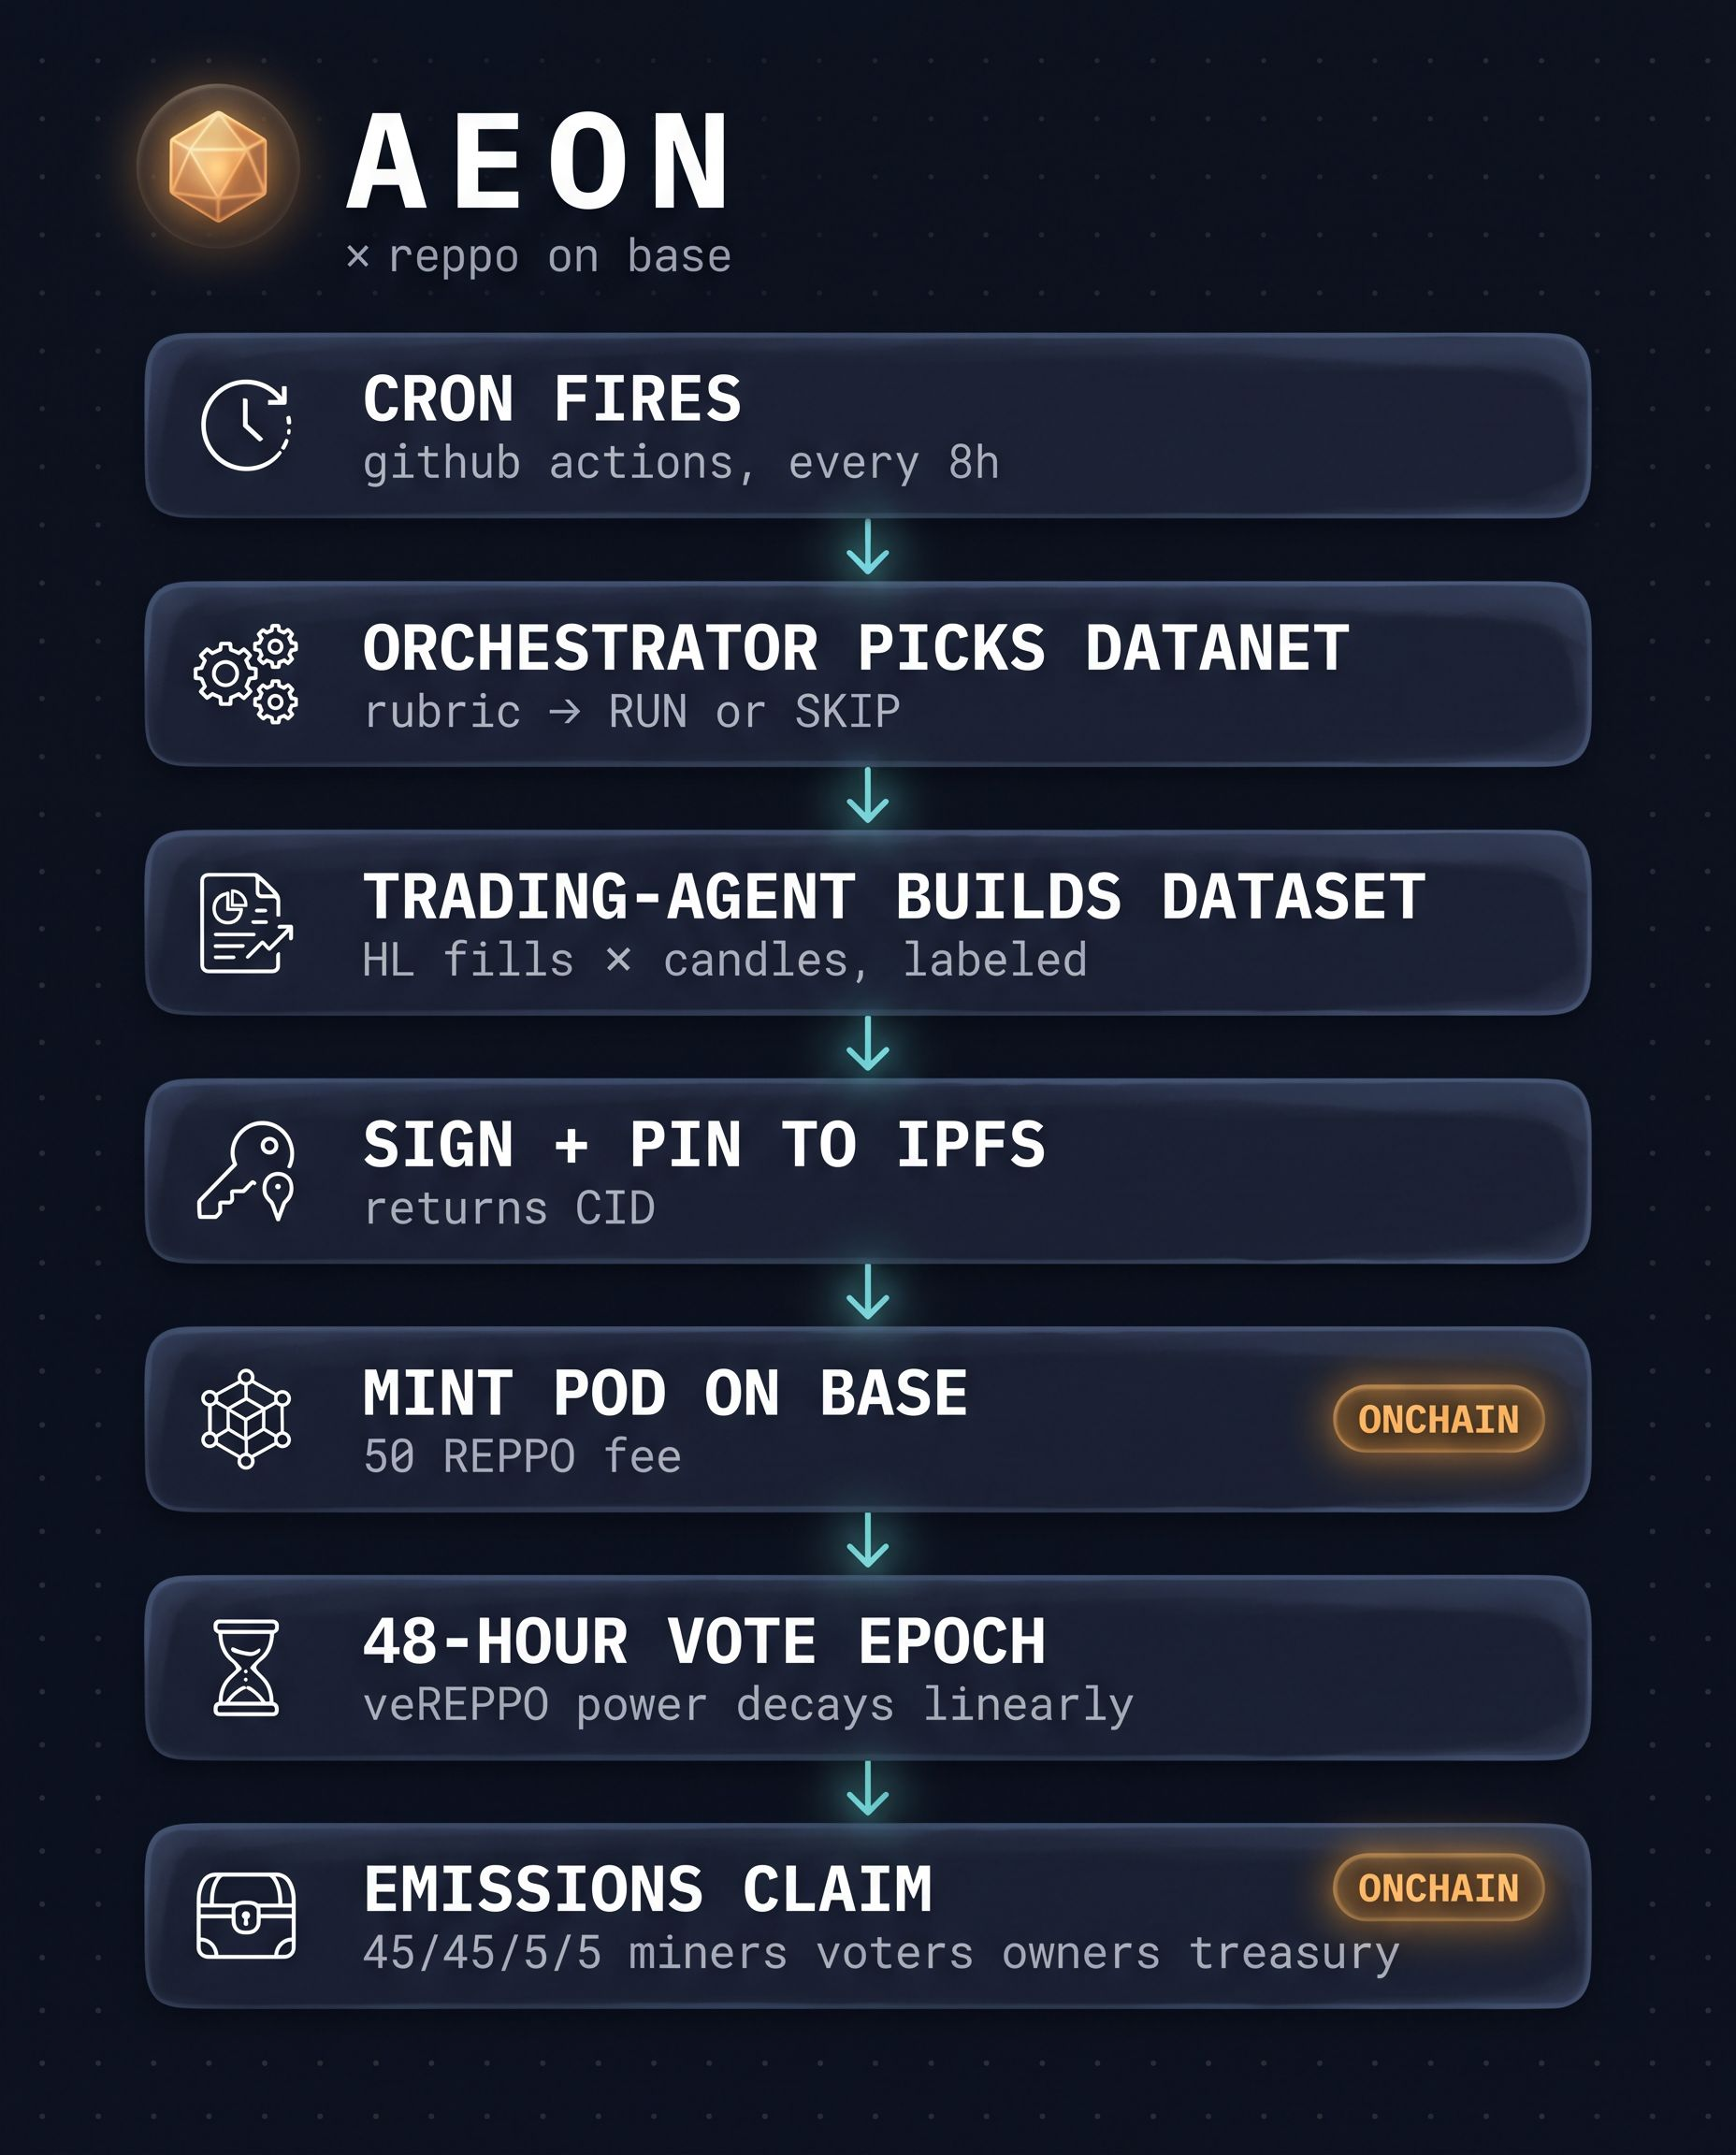
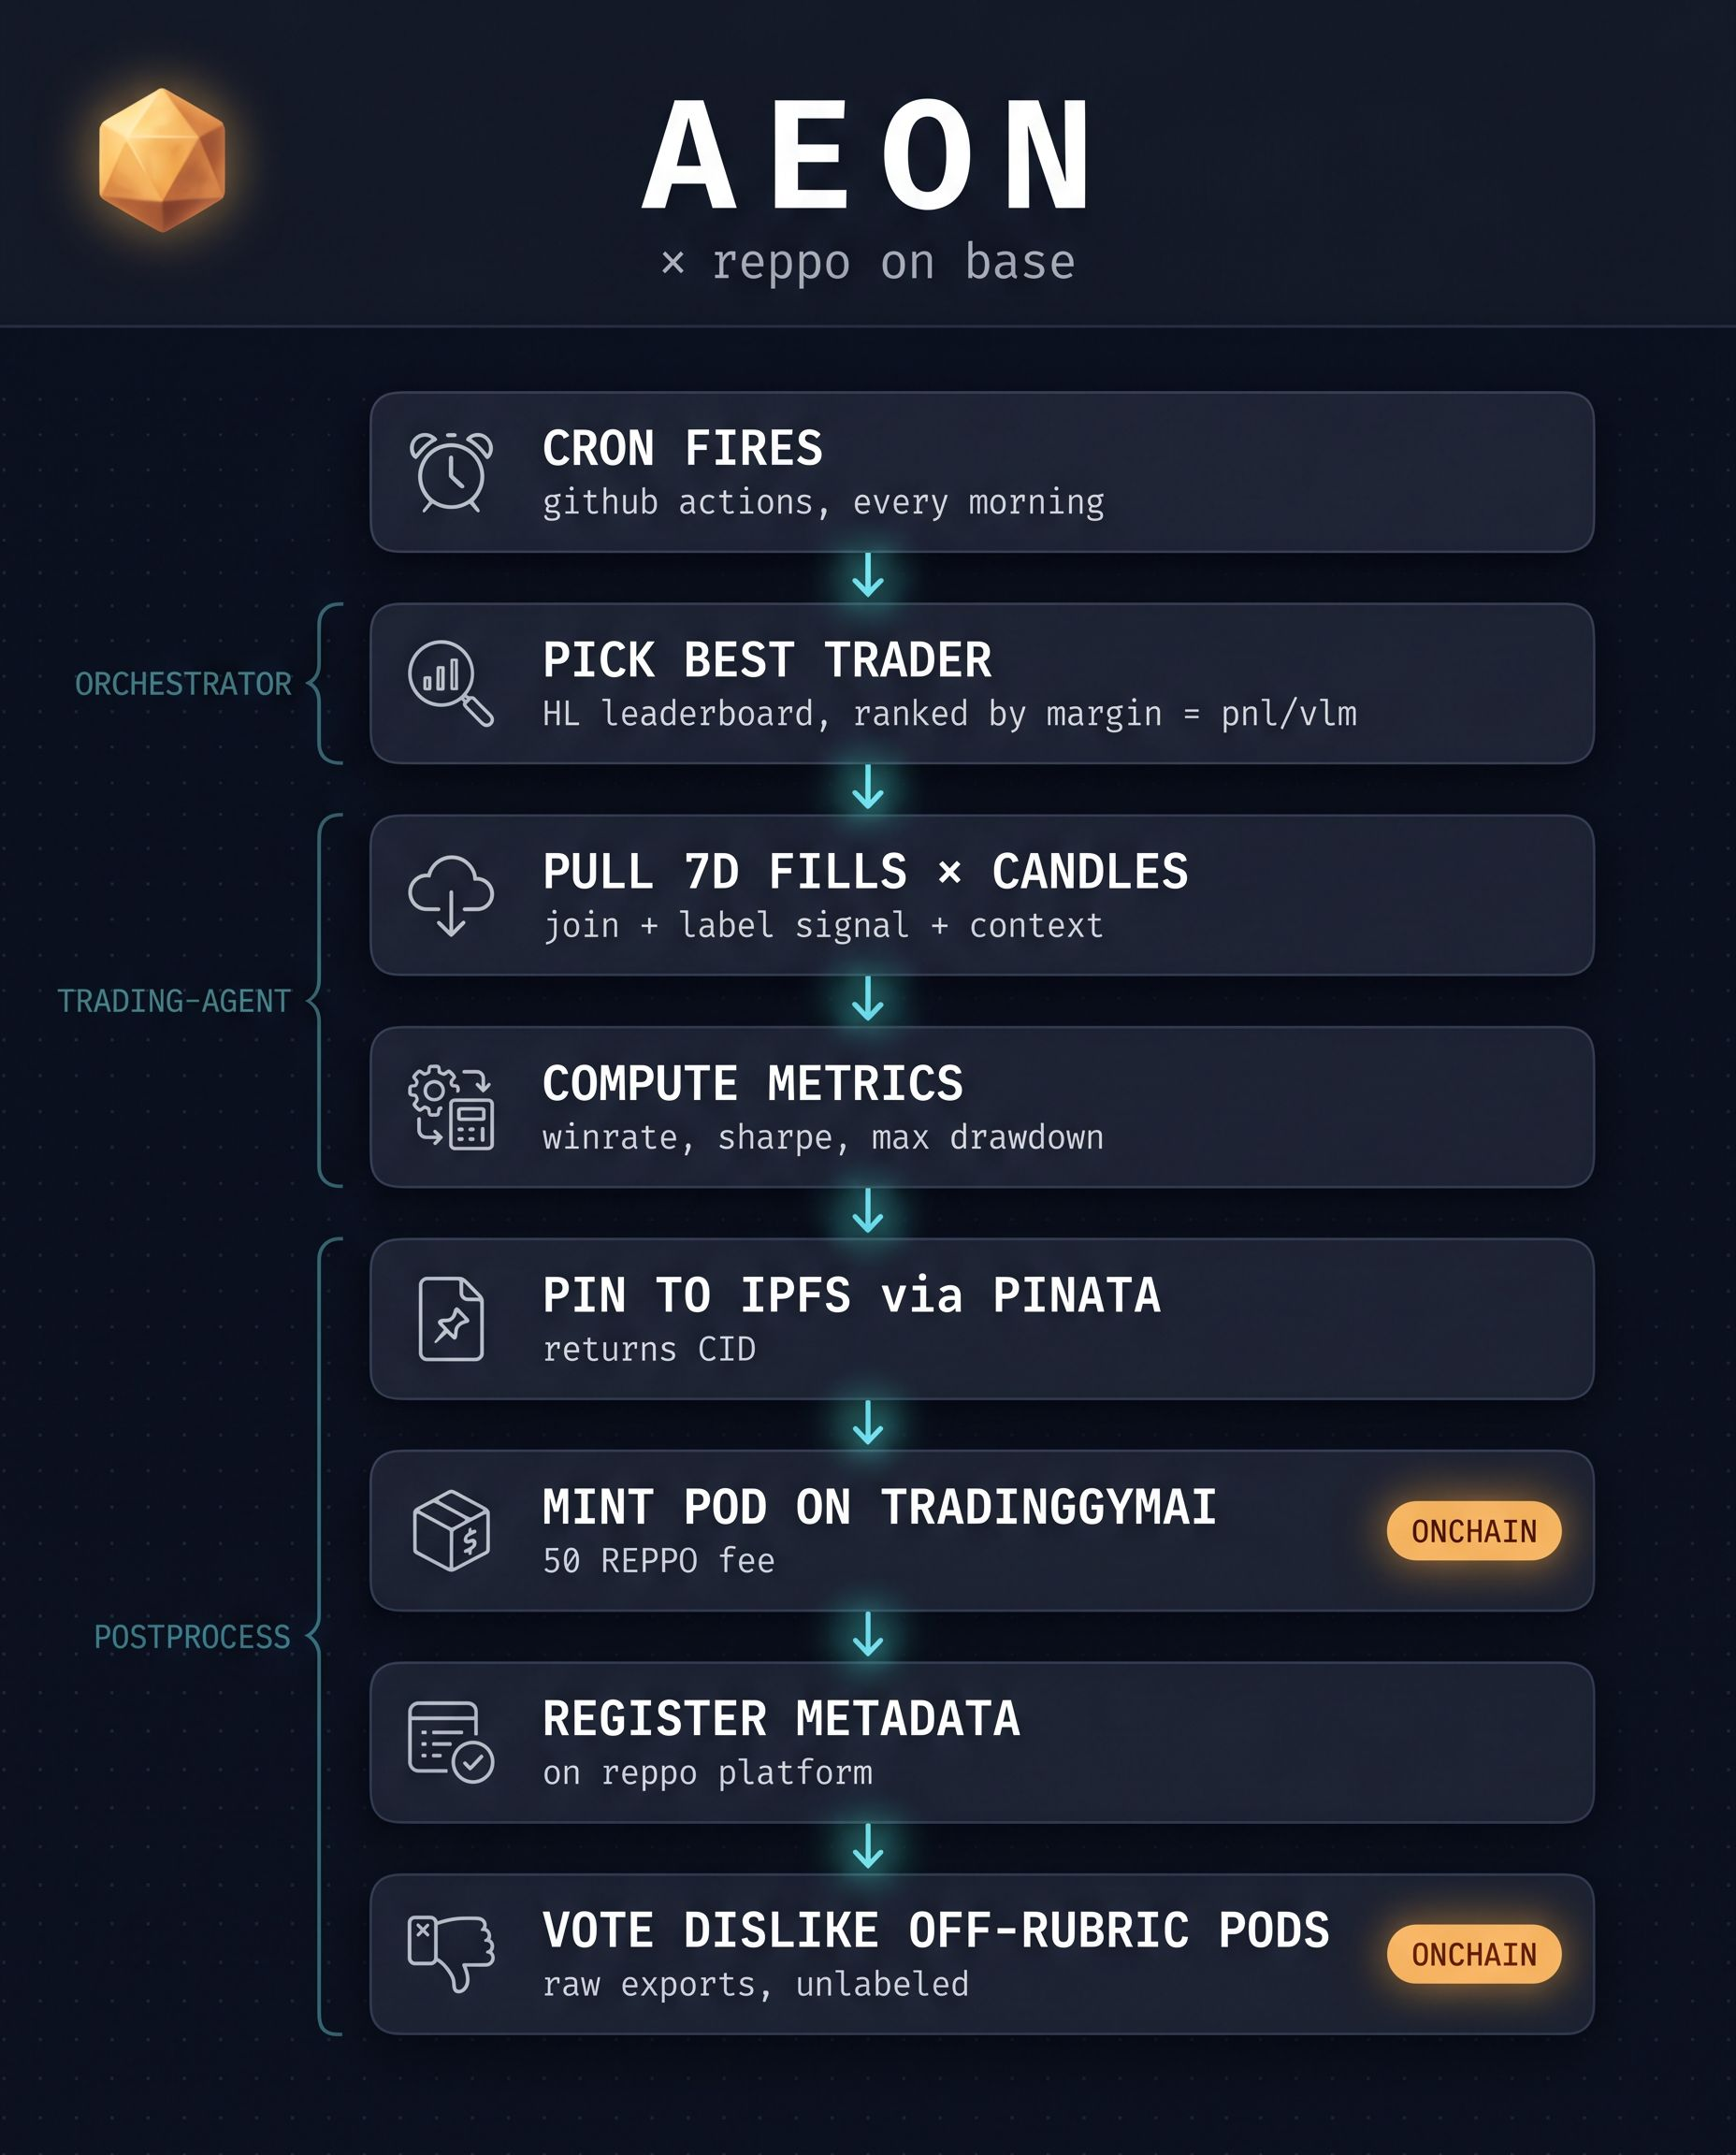
fix(reppo): vote dedup prefetch + platform subnetId = UUID (ISS-005 + ISS-014)
Two tightly-coupled fixes that compound on each other:

ISS-005 — vote duplicate-vote & out-of-epoch dedup
==================================================
Reppo CLI's --idempotency-key is NOT enforced for vote tx — fresh
tx lands every run on the same pod, spending REPPO. Across 9 days
of runs the wallet sent 7× duplicate DISLIKE on pods 372/373 and
several POD_NOT_VALID_FOR_EPOCH reverts (deliberate boundary probes
to confirm the contract enforces epoch validity — it does).

scripts/prefetch-reppo.sh now writes per-rubric
.reppo-cache/vote-filter-<name>.json carrying:
- current_epoch — max validityEpoch across all pods on the datanet
  (voting epochs roll forward as new pods land)
- voted_pod_ids — parsed from memory/topics/reppo.md's 'Votes cast'
  table for THIS datanet, success rows only

trading-agent SKILL.md Step 6 reads it, discards out-of-epoch +
already-voted pods BEFORE the rubric. Graceful degrade if missing.

ISS-014 — platform metadata POST HTTP 500 (subnetId wrong)
===========================================================
Reppo platform expects the subnet UUID (cuid like
cmnhuowns000bic04e16t6735 from the UI URL), not the on-chain token
id ('9'). Zod accepted any string so we passed validation, but the
platform's downstream UUID lookup blew up with 500 every time across
runs 10-11.

Three changes:
- configs/datanets/tradinggymai.md: add platform_subnet_uuid
  frontmatter scalar (cmnhuowns000bic04e16t6735).
[…]

Changed region(s): [[0.0312, 0.0312, 0.9375, 0.9688]]

diff --git a/skills/reppo-trading-agent/SKILL.md b/skills/reppo-trading-agent/SKILL.md
@@ -253,15 +253,42 @@ the pod will mint on chain but render as a blank row in the UI and
 fail the rubric's verifiability check. All three must be populated.
 
 ## Step 6 — Select pods to vote on
-Read `.reppo-cache/pods-tradinggymai.json`. If it is an error marker
-(`{"code":"PREFETCH_FAILED"}`), missing, or a JSON array with zero
-pods, skip voting — this is not an error.
+Read `.reppo-cache/pods-tradinggymai.json` and
+`.reppo-cache/vote-filter-tradinggymai.json`. If the pod cache is an
+error marker (`{"code":"PREFETCH_FAILED"}`), missing, or a JSON array
+with zero pods, skip voting — this is not an error.
 
-For each pod that is NOT one you just minted, apply the rubric's Vote
-YES/NO criteria. YES requires: HL perp trade dataset with all rubric
-fields and verifiable fills. NO covers: strategy descriptions without
-executed trades, missing required fields, unverifiable trades, non-HL
-markets, unlabeled raw dumps, spam.
+**Vote-filter pass (apply BEFORE the rubric):**
+
+`.reppo-cache/vote-filter-tradinggymai.json` carries:
+```json
+{ "current_epoch": "<integer-as-string>" | null,
+  "voted_pod_ids": ["<podId>", ...] }
+```
+
+For each pod in `pods-tradinggymai.json`, discard before rubric
+evaluation if EITHER:
+
+1. **Out-of-epoch:** `pod.validityEpoch != current_epoch` (when
+   `current_epoch` is non-null). Past-epoch votes always revert with
+   `POD_NOT_VALID_FOR_EPOCH`, wasting REPPO + the dry-run slot.
+2. **Already voted:** `pod.podId` is in `voted_pod_ids`. The Reppo
+   CLI does NOT enforce `--idempotency-key` reuse for `vote` — a
+   fresh tx lands every run, double-spending REPPO. This is ISS-005;
+   the filter is the only defense.
+
+If `vote-filter-tradinggymai.json` is missing or an error marker,
+skip the filter and proceed with the rubric — degrade gracefully,
+do not crash.
+
+**Then the rubric:**
+
+For each pod that passed both filters AND is NOT one you just minted,
+apply the rubric's Vote YES/NO criteria. YES requires: HL perp trade
+dataset with all rubric fields and verifiable fills. NO covers:
+strategy descriptions without executed trades, missing required
+fields, unverifiable trades, non-HL markets, unlabeled raw dumps,
+spam.
 
 Cast at most `vote_cap` votes total. For each, write
 `.pending-reppo/vote-<podId>-<direction>.json`:

diff --git a/configs/datanets/tradinggymai.md b/configs/datanets/tradinggymai.md
@@ -1,5 +1,6 @@
 ---
 datanet_id: "9"
+platform_subnet_uuid: "cmnhuowns000bic04e16t6735"
 agent: reppo-trading-agent
 mint_cap: 1
 vote_cap: 3